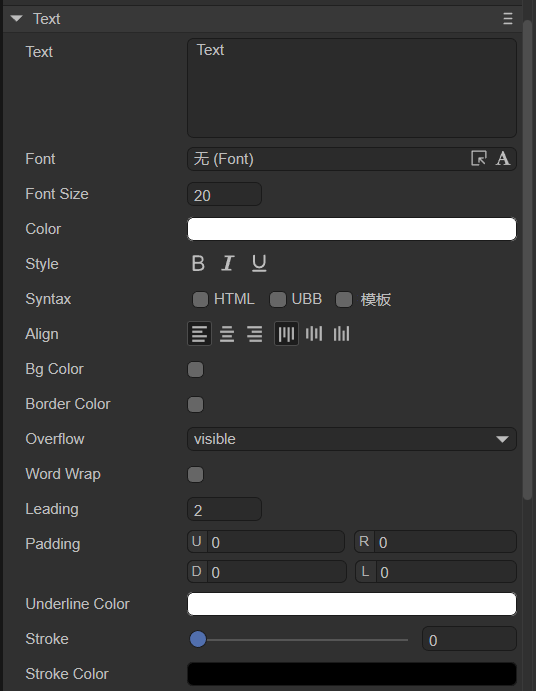
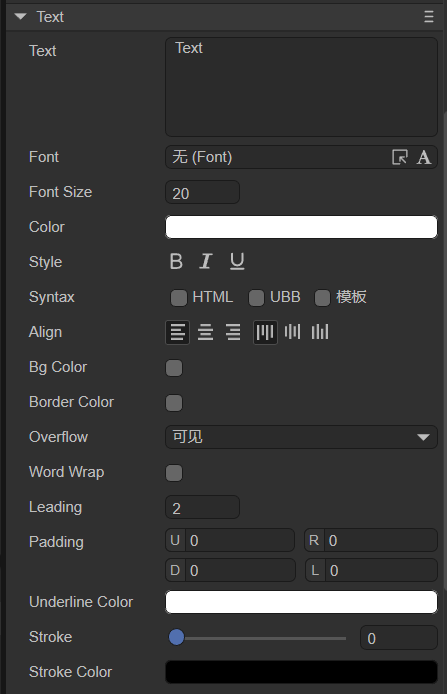
“基础文本Text”overflow属性更改

diff --git a/2D/displayObject/Text/readme.md b/2D/displayObject/Text/readme.md
@@ -33,7 +33,7 @@ Text继承于Sprite，是静态文本的基础组件。这里我们介绍一下T
 | align          | 对齐方式，水平对齐(align)分别是left（居左对齐）、center（居中对齐）、right（居右对齐）;垂直对齐(valign)分别是top（居顶对齐）、middle（居中对齐）、bottom（居底对齐） |
 | bgColor        | 背景颜色，勾选后可以直接输入颜色值，例如：`#ffffff`，也可以点击输入条右侧的拾色器选取颜色 |
 | borderColor    | 文本边框颜色，勾选后可以直接输入颜色值，例如：`#ffffff`，也可以点击输入条右侧的拾色器选取颜色 |
-| overflow       | 文本溢出处理，共有三种模式。visible（默认模式）：不进行任何裁切。hidden:不显示超出文本域的字符。scroll:不显示文本域外的字符像素，并且支持scroll接口 |
+| overflow       | 文本溢出处理，共有五种模式。visible（可见）：默认模式，不进行任何裁切。hidden（隐藏）：不显示超出文本域的字符。scroll（滚动）：不显示文本域外的字符像素，并且支持scroll接口，详见1.4节。shrink（自动收缩）：超出文本域时，文本整体缩小以适应文本框。ellipsis（显示省略号）：超出文本域时，文本被截断，并且文本最后显示省略号 |
 | wordWrap       | 是否自动换行，布尔值选项，默认为`false`，选择`true`可以开启自动换行 |
 | leading        | 垂直行间距，当开启自动换行时，文本内容多行时有效。间距以像素为单位，输入正整数即可 |
 | padding        | 文本边距，以像素为单位，由4个整数值组成。“U”表示距上边框的距离、”R“表示距右边框的距离、”D“表示距下边框的距离、”L”表示距左边框的距离 |
@@ -214,6 +214,81 @@ export class TextControl extends Laya.Script {
 ```
 
 
+
+下面再来看一个示例，这个是有关overflow属性中的滚动参数，如果文字超出了文本框，将其overflow属性设置为滚动，那么可以添加如下代码，实现通过鼠标拖拽显示超出的文字：
+
+```typescript
+const { regClass, property } = Laya;
+
+let prevX = 0;
+let prevY = 0;
+
+@regClass()
+export class UI_Text extends Laya.Script {
+
+	constructor() {
+		super();
+	}
+
+	@property({ type: Laya.Text })
+	txt: Laya.Text;
+
+	onAwake(): void {
+		
+		this.txt.text = 
+			"Layabox是HTML5引擎技术提供商与优秀的游戏发行商，面向AS/JS/TS开发者提供HTML5开发技术方案！\n" +
+			"Layabox是HTML5引擎技术提供商与优秀的游戏发行商，面向AS/JS/TS开发者提供HTML5开发技术方案！\n" +
+			"Layabox是HTML5引擎技术提供商与优秀的游戏发行商，面向AS/JS/TS开发者提供HTML5开发技术方案！\n" +
+			"Layabox是HTML5引擎技术提供商与优秀的游戏发行商，面向AS/JS/TS开发者提供HTML5开发技术方案！\n" +
+			"Layabox是HTML5引擎技术提供商与优秀的游戏发行商，面向AS/JS/TS开发者提供HTML5开发技术方案！\n" +
+			"Layabox是HTML5引擎技术提供商与优秀的游戏发行商，面向AS/JS/TS开发者提供HTML5开发技术方案！";
+		this.txt.fontSize = 35;
+		this.txt.size(400,150);
+		this.txt.borderColor = "#fa1515";
+		this.txt.overflow = "scroll";
+		this.txt.on(Laya.Event.MOUSE_DOWN, this, this.startScrollText);
+	}
+
+	/* 开始滚动文本 */
+	startScrollText() {
+
+		prevX = this.txt.mouseX;
+		prevY = this.txt.mouseY;
+
+		Laya.stage.on(Laya.Event.MOUSE_MOVE, this, this.scrollText);
+		Laya.stage.on(Laya.Event.MOUSE_UP, this, this.finishScrollText);
+	}
+
+	/* 停止滚动文本 */
+	finishScrollText() {
+
+		Laya.stage.off(Laya.Event.MOUSE_MOVE, this, this.scrollText);
+		Laya.stage.off(Laya.Event.MOUSE_UP, this, this.finishScrollText);
+	}
+
+	/* 鼠标滚动文本 */
+	scrollText() {
+
+		let nowX = this.txt.mouseX;
+		let nowY = this.txt.mouseY;
+
+		this.txt.scrollX += prevX - nowX; //水平滚动距离 
+		this.txt.scrollY += prevY - nowY; //垂直平滚动距离 
+
+		prevX = nowX;//鼠标移动后，归位
+		prevY = nowY;
+	}
+
+}
+```
+
+效果如下：
+
+![1-8](img/1-8.gif)
+
+（动图1-8）
+
+这个示例说明，滚动与隐藏不同，它并没有把超出文本框的文字进行裁剪。
 
 ## 2. 代码创建Text
 
